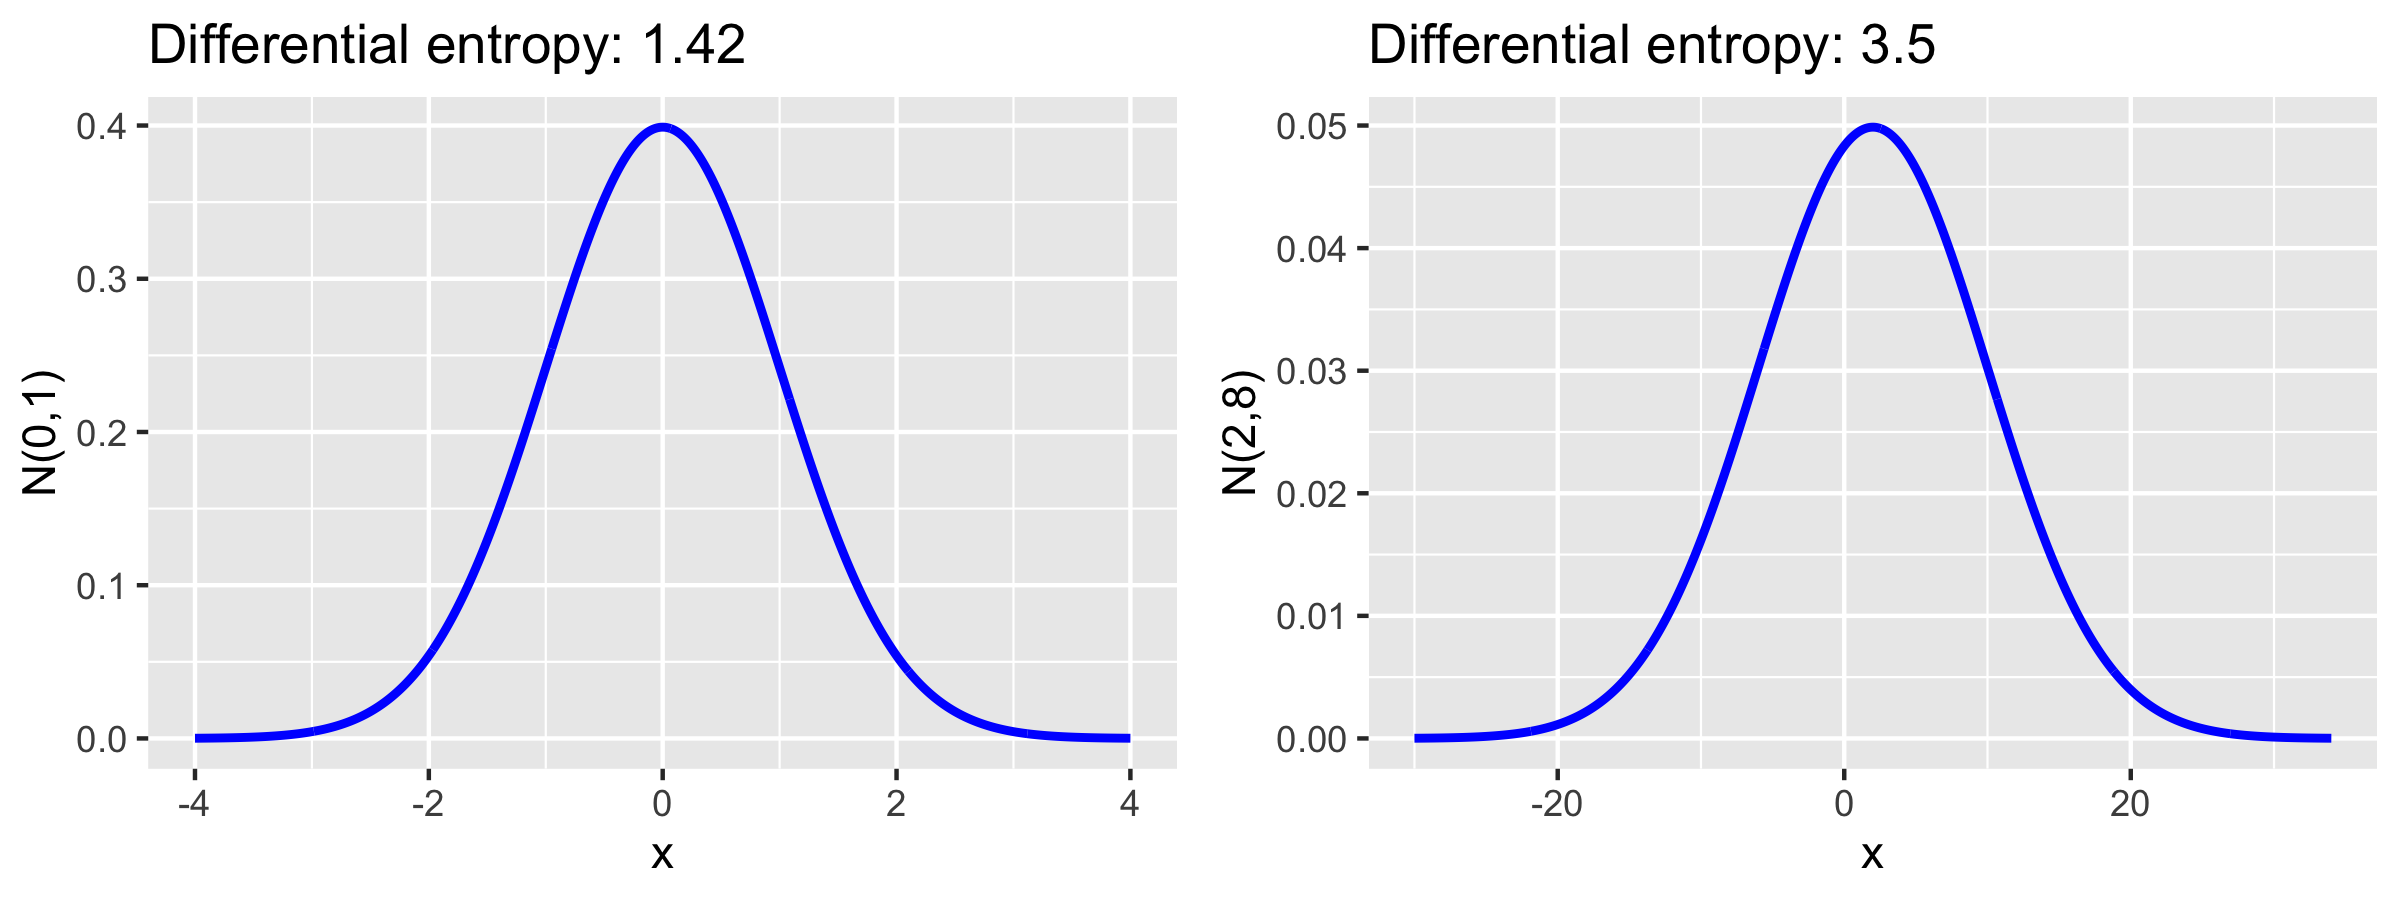
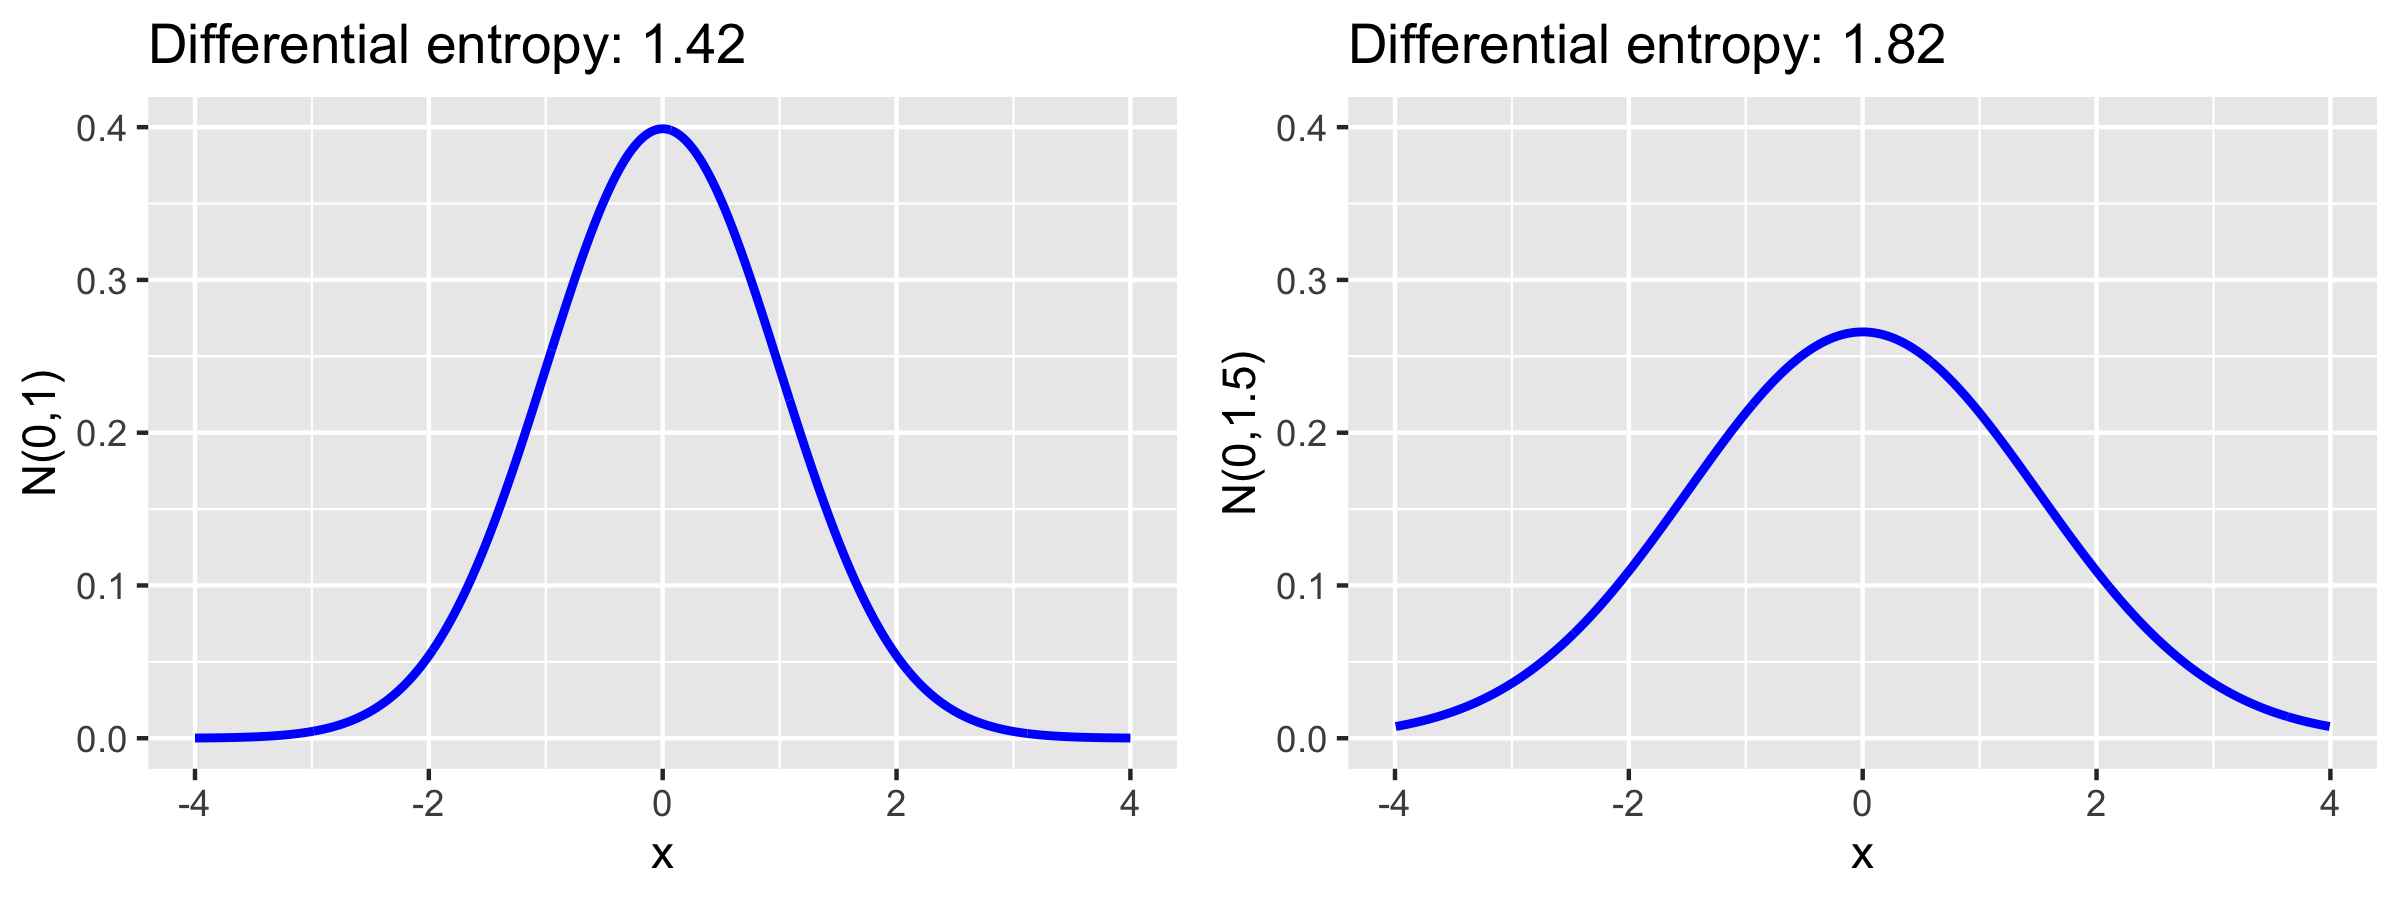
update differential entropy plots and add new kl divergence plot

diff --git a/slides/information-theory/slides-info-kl.tex b/slides/information-theory/slides-info-kl.tex
@@ -48,6 +48,18 @@ $$ D_{KL}(p \| q) = \E_p \left[\log \frac{p(X)}{q(X)}\right] $$
 
 \end{vbframe}
 
+\begin{vbframe} {KL-Divergence Example}
+
+Consider the KL-Divergence between two continuous distributions with $p(X)=N(0,1)$ and $q(X)=LP(0, 1.5)$ given by
+
+  $$ D_{KL}(p \| q) = \int_{x \in \Xspace} p(x) \cdot \log \frac{p(x)}{q(x)}. $$
+
+\begin{figure}
+\includegraphics[width = 8cm ]{figure/kl_calculation_plot.png} 
+\end{figure}
+
+\end{vbframe}
+
 \begin{vbframe} {Information Inequality}
 
 $ D_{KL}(p \| q) \geq 0$ holds always true for any pair of distributions, and holds with equality if and only if $p=q$. 
